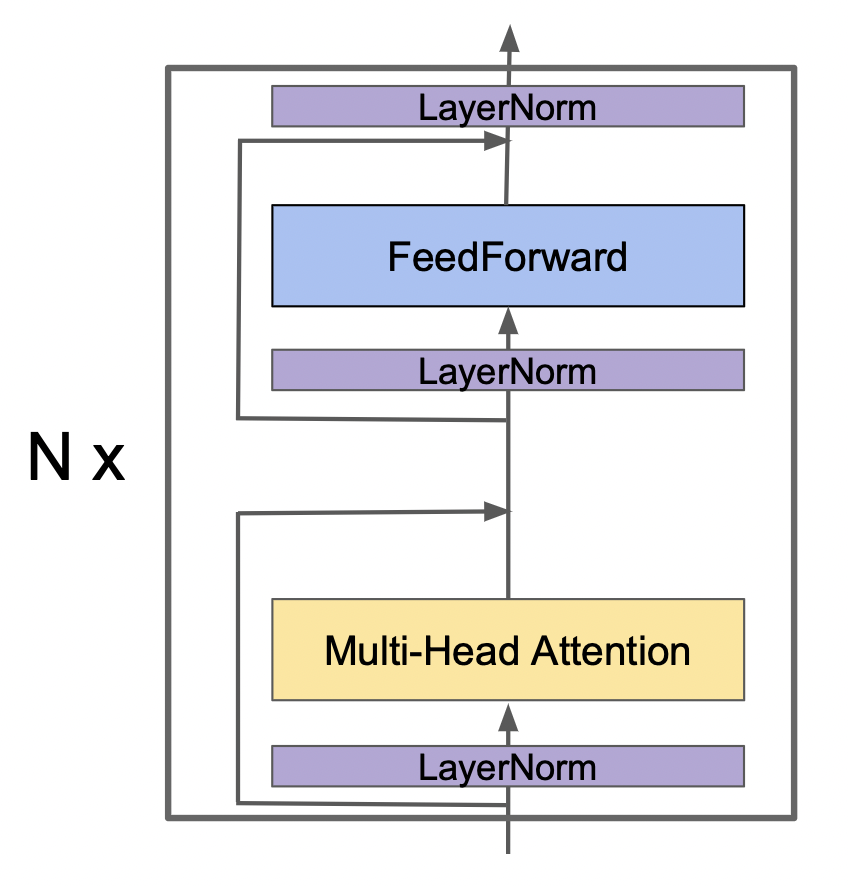
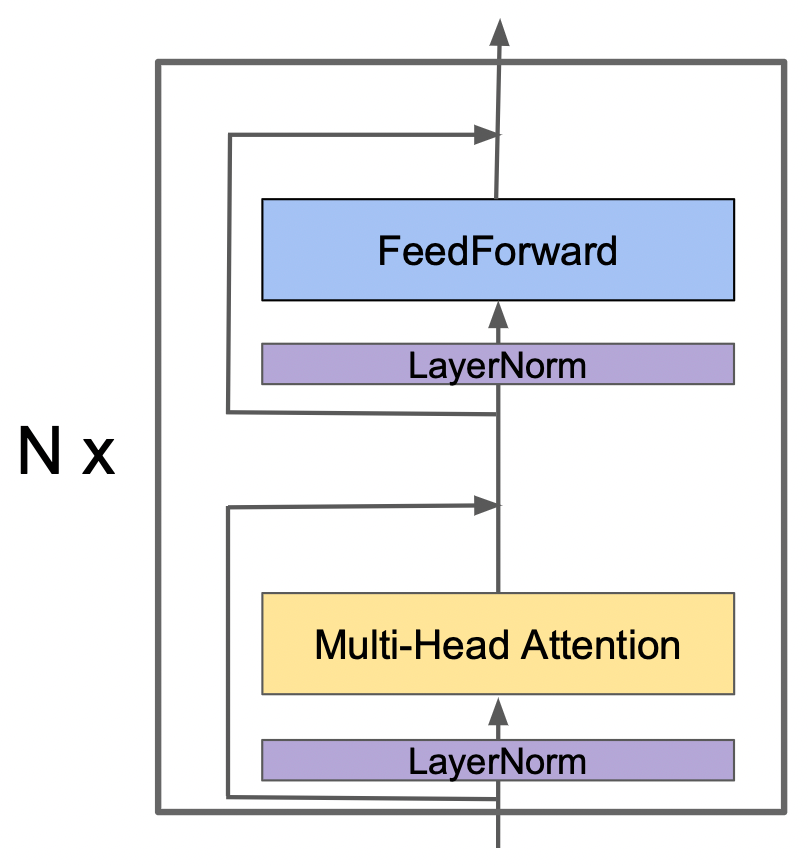
instructions까지 마무리

Changed region(s): [[0.1856, 0.0312, 0.9901, 0.9665], [0.0, 0.4677, 0.1547, 0.5612]]

diff --git a/week2/src/gpt_v4.py b/week2/src/gpt_v4.py
@@ -8,10 +8,14 @@ from .gpt_v3 import GPTVer3
 
 
 class GPTVer4(GPTVer3):
+    """
+    `GPTVer3`에서 positional encoding대신 position embedding으로 구현한 모델로 position 정보를 embedding table을 학습하여 얻는 모델입니다.
+    """
     def __init__(self, contextualizer: torch.nn.Module, vocab_size: int, block_size: int, embed_size: int):
         super().__init__(contextualizer, vocab_size, block_size, embed_size)
         self.token_embedding_table = torch.nn.Embedding(vocab_size, embed_size)  # (|V|, C)
         self.pos_embedding_table = torch.nn.Embedding(block_size, embed_size)  # (T, C)
+        self.ln_f = torch.nn.LayerNorm(embed_size)  # final layer norm
 
     def logits(self, idx: torch.Tensor) -> torch.Tensor:
         """
@@ -19,15 +23,11 @@ class GPTVer4(GPTVer3):
         :return: logits (B, T, |V|)
         """
         B, T = idx.shape
-        # --- TODO --- #
-        """
-        encode learned positional embeddings (self.pos_embedding_table) to tok_emb
-        """
         # idx and targets are both (B,T) tensor of integers
         tok_emb = self.token_embedding_table(idx)  # (B, T) ->  (B, T, C)
         pos_emb = self.pos_embedding_table(torch.arange(T).to(tok_emb.device))  # (T) -> (T, C)
         x = tok_emb + pos_emb  # broadcast-add (T, C) to (B, T, C) across B.
         x = self.contextualizer(x)  # (B, T, C) ->  (B, T, C)
+        x = self.ln_f(x)  # layer norm
         logits = self.lm_head(x)  # (B, T, C) @ (B, T, |V|) -> (B, T, |V|)
-        # ----------- #
         return logits

diff --git a/week2/src/block_v1.py b/week2/src/block_v1.py
@@ -2,6 +2,7 @@ import torch
 from typing import Union
 from .multi_head_v1 import MultiHeadVer1
 from .multi_head_v2 import MultiHeadVer2
+from .feed_forward import FeedForward
 
 
 class BlockVer1(torch.nn.Module):
@@ -11,21 +12,15 @@ class BlockVer1(torch.nn.Module):
         # n_embd: embedding dimension, n_head: the number of heads we'd like
         super().__init__()
         self.head = head
-        # --- TODO --- #
-        self.ffwd = torch.nn.Sequential(
-            torch.nn.Linear(embed_size, 4 * embed_size),
-            torch.nn.ReLU(),
-            torch.nn.Linear(4 * embed_size, embed_size),
-        )
-        # ----------- #
+        self.ffwd = FeedForward(embed_size)
 
     def forward(self, x: torch.Tensor) -> torch.Tensor:
         """
         :param x: (B, T, C)
         :return: (B, T, C)
         """
-        # --- TODO --- #
+        # --- TODO 2-2 --- #
         x = self.head(x)  # (B, T, C)
         x = self.ffwd(x)  # (B, T, C) @ (C, 4*C) @ (4*C, C) -> (B, T, C)
-        # ------------ #
+        # ---------------- #
         return x

diff --git a/week2/src/block_v4.py b/week2/src/block_v4.py
@@ -6,21 +6,20 @@ from typing import Union
 from .block_v3 import BlockVer3
 from .multi_head_v1 import MultiHeadVer1
 from .multi_head_v2 import MultiHeadVer2
+from .feed_forward import FeedForward
 
 
 class BlockVer4(BlockVer3):
 
     def __init__(self, head: Union[MultiHeadVer1, MultiHeadVer2], embed_size: int, dropout: float):
         super().__init__(head, embed_size)
-        # --- TODO --- #
+        # --- TODO 4 --- #
         self.head = torch.nn.Sequential(
             head,
             torch.nn.Dropout(dropout)  # dropout is added at the end
         )
         self.ffwd = torch.nn.Sequential(
-            torch.nn.Linear(embed_size, 4 * embed_size),
-            torch.nn.ReLU(),
-            torch.nn.Linear(4 * embed_size, embed_size),
+            FeedForward(embed_size),
             torch.nn.Dropout(dropout)  # dropout is added at the end
         )
-        # ----------- #
+        # -------------- #

diff --git a/week2/src/feed_forward.py b/week2/src/feed_forward.py
@@ -1,0 +1,20 @@
+import torch.nn
+
+
+class FeedForward(torch.nn.Module):
+    def __init__(self, embed_size: int):
+        super().__init__()
+        # --- TODO 2-1 --- #
+        self.net = torch.nn.Sequential(
+            torch.nn.Linear(embed_size, 4 * embed_size),
+            torch.nn.ReLU(),
+            torch.nn.Linear(4 * embed_size, embed_size)
+        )
+        # ---------------- #
+
+    def forward(self, x: torch.Tensor) -> torch.Tensor:
+        """
+        :param x: (B, T, C)
+        :return: (B, T, C)
+        """
+        return self.net(x)

diff --git a/week2/src/multi_head_v1.py b/week2/src/multi_head_v1.py
@@ -29,11 +29,11 @@ class MultiHeadVer1(torch.nn.Module):
         :param x: (B, T, C)
         :return: (B, T, C)
         """
-        # --- TODO --- #
+        # --- TODO 1-1 --- #
         # (B, T, head_size) * n_num_heads --concat--> (B, T, C)
         concats = torch.concat([head(x) for head in self.heads], dim=-1)
         # aggregate concatenations
         # (B, T, C) * (C, C) ->  (B, T, C)
         out = self.proj(concats)
-        # ------------ #
+        # ---------------- #
         return out

diff --git a/week2/src/block_v3.py b/week2/src/block_v3.py
@@ -15,12 +15,10 @@ class BlockVer3(BlockVer2):
         super().__init__(head, embed_size)
         self.ln1 = LayerNorm(embed_size)
         self.ln2 = LayerNorm(embed_size)
-        self.ln3 = LayerNorm(embed_size)
 
     def forward(self, x: torch.Tensor) -> torch.Tensor:
-        # --- TODO --- #
+        # --- TODO 3-2 --- #
         x = x + self.head(self.ln1(x))
         x = x + self.ffwd(self.ln2(x))
-        x = self.ln3(x)
-        # ------------ #
+        # ---------------- #
         return x

diff --git a/week2/tests/test_7.py b/week2/tests/test_7.py
@@ -35,9 +35,9 @@ def test_multi_head_helps():
     # --- MultiHeadVer4: multi-head --- #
     contextualizer = MultiHeadVer1(T, C, n_heads)
     gpt = GPTVer4(contextualizer, config['vocab_size'], T, C)
-    losses_2 = train(gpt)
+    losses_multi = train(gpt)
     # gpt should perform better with multi-head
-    assert losses_1['train'] > losses_2['train']
+    assert losses_1['train'] > losses_multi['train']
 
 
 def test_multi_head_ver_2_is_faster_than_ver_1():

diff --git a/week2/src/layer_normalization.py b/week2/src/layer_normalization.py
@@ -21,8 +21,8 @@ class LayerNorm(torch.nn.Module):
         :param x: (B, T, C)
         :return: (B, T, C)
         """
-        # --- TODO --- #
+        # --- TODO 3-1 --- #
         mean = x.mean(-1, keepdim=True)  # (B, T, C) ->  (B, T, 1)
         std = x.std(-1, keepdim=True)  # (B, T, C) ->  (B, T, 1)
         return self.gamma * (x - mean) / (std + self.eps) + self.beta
-        # ------------ #
+        # ---------------- #

diff --git a/week2/src/gpt_v3.py b/week2/src/gpt_v3.py
@@ -6,6 +6,7 @@ from torch.nn import functional as F
 class GPTVer3(torch.nn.Module):
     """
     redefining this here in case you haven't completed week1/src/gpt_v3.py
+    Week1에서 구현했던 모델입니다.  Week2를 바로 시작할 수 있도록 재정의 했습니다.
     """
 
     def __init__(self, contextualizer: torch.nn.Module, vocab_size: int, block_size: int, embed_size: int):

diff --git a/week2/src/block_v2.py b/week2/src/block_v2.py
@@ -9,8 +9,8 @@ class BlockVer2(BlockVer1):
         :param x: (B, T, C)
         :return: (B, T, C)
         """
-        # --- TODO --- #
+        # --- TODO 2-3 --- #
         x = x + self.head(x)
         x = x + self.ffwd(x)
-        # ------------ #
+        # --------------- #
         return x

diff --git a/week2/README.md b/week2/README.md
@@ -17,74 +17,110 @@ pip3 install torch==1.13.1 pytest==7.2.1 pyyaml==6.0
 ## Introduction
 week2에서는 week1에서 완성한 GPTVer3(one-head self-attention + positional encoding)와 HeadVer4(self-attention head)를 더 발전시켜 최종적으로 NanoGPT를 구현하는 것을 목표로 합니다.
 
+## `test_7.py` (Team 1)
 
-## MultiHeadVer1
-<img src='img/Multi-Head Attention.png' width=250>  
+```shell
+pytest tests/test_7.py -s -vv
+```
 
-week1에서 구현했던 HeadVer4(self-attention head)를 바탕으로 multi-head attention을 구현하고자 합니다. self-attention head에서 Q, K, V가 각각 FC layer를 통과하고나면 (batch_size, block_size, embed_size) → (batch_size, block_size, head_size)로 shape이 변경이 됩니다. 그리고 embed_size = head_size * n_heads의 관계가 성립합니다.
+### test_head_ver_4_and_multi_head_ver_1_are_equally_expensive & test_multi_head_helps
 
-#### TODO
-`input x를 n_heads 개의 self-attention head를 통과한 후 head_output을 concatnate합니다. 그리고 projection layer(FC)를 통과시켜 multi-head attention을 구현해주세요`
+<img src='img/Multi-Head Attention.png' width=250>
 
+Week1에서 구현했던 `HeadVer4`(self-attention head)를 바탕으로 multi-head attention을 구현합니다.
+self-attention head에서 Q, K, V가 각각 FC layer를 통과하고나면 (batch_size, block_size, embed_size) → (batch_size, block_size, head_size)로 shape이 변경이 됩니다.
+그리고 embed_size = head_size * n_heads의 관계가 성립합니다.
 
+> TODO 1: `MultiHeaVer1.forward`를 구현해주세요.
+> input x를 n_heads 개의 self-attention head를 통과한 후 head_output을 concatnate합니다. 그리고 projection layer(FC)를 통과시켜 multi-head attention을 구현해주세요.
 
-## MultiHeadVer2
-MultiHeadVer2는 MultiHeadVer1의 연산을 행렬 연산과 reshape을 사용하여 구현한 것입니다.
+테스트를 돌려보고 다음의 질문에 답해주세요.
+1. `MultiHeadVer1`와 `HeadVer4`의 연산량에 차이가 있나요? 없다면 왜?
+2. `MultiHeadVer1`와 `HeadVer4` 중 어떤 것이 더 좋은 성능을 보이나요? 그 이유는 무엇인가요?
 
+### test_multi_head_ver_2_is_faster_than_ver_1 & test_multi_head_ver_1_and_multi_head_ver_2_are_logically_equal
 
+테스트를 돌려보고 다음의 질문에 답해주세요.
+1. `MultiHeadVer2`와 `MultiHeadVer1`는 알고리즘에 차이는 없지만 `MultiHeadVer2`가 연산 속도가 더 빠릅니다. 그 이유는 무엇인가요?
+---
 
-## FeedForward
+## `test_8.py` (Team 2)
 
-GPT block 중 FeedForward에 해당하는 부분입니다.
+```shell
+pytest tests/test_8.py -s -vv
+```
 
+### test_ffn_helps
 
-
-## BlockVer1
 <img src='img/BlockVer1.png' width=250>
 
-BlockVer1에서는 위에서 구현한 Multi-Head Attention과 FeedForward를 수행합니다.
+`BlockVer1`은 위에서 구현한 Multi-Head Attention과 FeedForward를 수행합니다.
 
-#### TODO
-`Multi-Head Attention을 통과한 뒤 FeedForward layer를 통과시켜 BlockVer1을 구현해주세요`
+> TODO 2-1: `FeedForward`를 구현해주세요.
+
+> TODO 2-2: `BlockVer1.forward`을 구현해주세요. Multi-Head Attention을 통과한 뒤 FeedForward layer를 통과시키면 됩니다.
+
+테스트를 돌려보고 다음의 질문에 답해주세요.
+1. `MultiHeadVer2`와  `BlockVer1` 중 어떤 것이 더 좋은 성능을 보이나요? 그 이유는 무엇인가요?
 
 
+### test_residual_conn_helps_when_network_is_deep
 
-## BlockVer2
 <img src='img/BlockVer2.png' width=250>
 
-BlockVer2은 BlockVer1에서 Residual connection을 추가한 Block입니다.
+`BlockVer2`는 BlockVer1에서 Residual connection을 추가한 Block입니다.
 
-#### TODO
-`BlockVer1에서 Multi-Head Attention과 FeedForward에 대해 각각 residual Connection을 추가해주세요`
-
+> TODO 2-3: `BlockVer2.forward`를 구현해주세요. Multi-Head Attention과 FeedForward에 대해 각각 residual Connection을 추가하면 됩니다.
 
 
-## LayerNormalization
-#### TODO
-`BlockVer3에서 사용할 Layer Nomalization을 구현해주세요`
+테스트를 돌려보고 다음의 질문에 답해주세요.
+1. `BlockVer1`과 `BlockVer2` 중 어떤 것이 더 좋은 성능을 보이나요? 그 이유는 무엇인가요?
+
+---
+
+## `test_9.py` (Team 3)
+
+```shell
+pytest tests/test_9.py -s -vv
+```
+
+### test_layer_norm_features_dim_is_properly_normalized & test_layer_norm_mitigates_vanishing_gradient
 
 
+> TODO 3-1: `BlockVer3`에서 사용할 `LayerNorm`을 구현해주세요.
 
-## BlockVer3
+테스트를 돌려보고 다음의 질문에 답해주세요.
+1. `LayerNorm`을 통과한 후에는 어떤 특징이 있나요?
+2. `LayerNorm`은 어떻게 기울기 소실 문제를 완화하나요?
+
+### test_layer_norm_helps_when_network_is_deep
+
 <img src='img/BlockVer3.png' width=250>
+![img.png](img.png)
 
-#### TODO
-`BlockVer2에서 LayerNorm layer를 추가해주세요. LayerNorm은 위의 그림처럼 Multi-Head의 input, FeedForward의 input, block의 최종 output에 총 3곳에 추가하시면 됩니다.`
+> TODO 3-2: `BlockVer3.forward`를 구현해주세요. LayerNorm을 위의 그림처럼 Multi-Head의 input, FeedForward의 input 총 2곳에 추가하시면 됩니다.
 
+테스트를 돌려보고 다음의 질문에 답해주세요.
+1. `BlockVer2`와 `BlockVer3` 중 어떤 것이 더 좋은 성능을 보이나요? 그 이유는 무엇인가요?
 
+--- 
 
-## BlockVer4
+## `test_10.py` (Team 4)
+
+```shell
+pytest tests/test_10.py -s -vv
+```
+### test_block_ver_4_output_is_always_different_in_train_mode & test_block_ver_4_output_is_always_the_same_in_eval_mode
+
 <img src='img/BlockVer4.png' width=250>
 
-#### TODO
-`BlockVer3에서 Dropout layer를 추가해주세요. Dropout은 Multi-Head의 output, FeedForward의 output 총 2곳에 추가하시면 됩니다.`
+> TODO 4: `BlockVer4.forward`를 구현해주세요. Dropout layer를 추가하면됩니다. Dropout은 Multi-Head의 output, FeedForward의 output 총 2곳에 추가하시면 됩니다.
 
+테스트를 돌려보고 다음의 질문에 답해주세요.
+1. 왜 학습 모드 일 때 `BlockVer4`의 출력은 항상 다를까요?
+2. 왜 평가 모드 일 때 `BlockVer4`의 출력은 항상 같을까요?
 
+### test_dropout_helps
 
-## GPTVer3
-GPTVer3는 Week1에서 구현했던 모델입니다.
-
-
-
-## GPTVer4
-GPTVer4는 GPTVer3에서 positional encoding대신 position embedding으로 구현한 모델로 position 정보를 embedding table을 학습하여 얻는 모델입니다.
+테스트를 돌려보고 다음의 질문에 답해주세요.
+1. `BlockVer3`와 `BlockVer4` 중 어떤 것이 더 좋은 성능을 보이나요? 그 이유는 무엇인가요?
